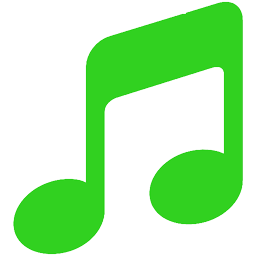
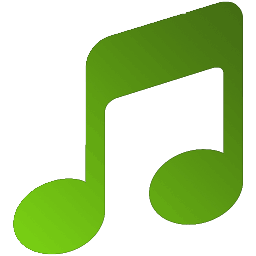
further updates to match new style

diff --git a/feedback.html b/feedback.html
@@ -1,67 +1,71 @@
 <!DOCTYPE html>
-
 <html>
 
 <head>
 
 	<meta charset="utf-8">
-
 	<meta http-equiv="X-UA-Compatible" content="IE=edge">
 
-	<title>
-		Feedback
-	</title>
+	<title>The Music Club - Feedback</title>
 
-	<script src="./js/feedback.js">
-	</script>
+	<link rel="icon" href="./images/favicon.ico">
 
-	<link rel="stylesheet" href="./css/global.css"> <!-- call global stylesheet -->
+	<link rel="stylesheet" href="http://maxcdn.bootstrapcdn.com/font-awesome/4.3.0/css/font-awesome.min.css"> <!-- Font-Awesome -->
+	<link rel="stylesheet" href="./css/global.css"> <!-- Global stylesheet -->
+	<link rel="stylesheet" href="./css/feedback.css"> <!-- Custom stylesheet -->
 
-	<link rel="stylesheet" href="./css/feedback.css"> <!-- call custom stylesheet -->
-
-	<link rel="icon" href="./images/favicon.ico"> <!-- cal favicon -->
-
+	<script src="https://ajax.googleapis.com/ajax/libs/jquery/1.11.2/jquery.min.js"></script> <!-- jQuery Library -->
+	<script src="./js/default.js"></script> <!-- Default JavaScript -->
+	
 </head>
 
 <body>
 
-	<div id="progressbar"> <!-- progress bar div -->
+	<div id="progressbar"> <!-- Progress bar -->
 
-		<span id="loading"></span>
+  		<span id="loading"></span>
 
-	</div> <!-- end of progress bar div -->
+	</div> <!-- END of progress bar -->
 
-	<header> <!-- html5 header --> <!--div header-->
+	<header> <!-- Header -->
 
-			<div class="cdspin"> <!-- page logo -->
-				
-				<img src="./images/cd.png" alt="">
-
-			</div> <!-- end of page logo -->
-		
-		<div class="textspace" <!-- textspace div separator -->
-
-			<h1> <!-- page heading -->
-				Feedback Form
-			</h1> <!-- end of page heading -->
-
+		<div class="logo">
+			<img class="cover" src="./images/logo-cover.png" alt="Cover">
+			<img class="cd" src="./images/logo.png" alt="CD">
 		</div>
 
-		<nav> <!-- page links -->
-			<ul>
-				<li><a href="main.html">home</a></li>
-				<li><a href="cvpage.html">view our cvs!</a></li>
-				<li><a href="feedback.html">give us feedback!</a></li>
-			</ul>
-		</nav> <!-- end of links -->
+		<h1>Music Club</h1>
+		<i class="fa fa-music"></i>
 
-	</header> <!-- end of html5 header -->
+		<nav class="menu"> <!-- Navigation -->
+            <ul>
+                <li><a href="./main.html">Home</a></li>
+                <li><a href="./feedback.html">Feedback</a></li>
+                <li><a href="/content.html">Top 50</a></li>
+                <li><a href="/content.html">CV's</a></li>
+                <li><a href="/content.html">Team</a></li>
+                <li><a href="/content.html">About Us</a></li>
+                <li class="pull-right search"><a href="#"> <i class="fa fa-search"></i> </a></li>
+            </ul>
+	    </nav> <!-- END of navigation -->
 
-	<div id="wrap"> <!-- content wrapper -->
+	</header> <!-- END of header -->
 
-		<div id="content"> <!-- content seperator --> <!--div content-->
+	<div class="search-bar"> <!-- Search bar -->
+		<form action="">
+			<input type="text" name="do-search" placeholder="Search for your favorite music...">
+			<a href="#"><i class="fa fa-close close"></i></a>
+		</form>
+	</div> <!-- END search bar -->
 
-			<form action="mailto:w1492046@my.westminster.ac.uk"> <!--form will mail to specified address-->
+	<div class="page-wrapper"> <!-- Page-wrap -->
+
+		<main class="main-content-full"> <!-- Main content -->
+
+			<article>
+				<h2>The Music-Club Feedback Form</h2>
+				
+				<form action="mailto:w1492046@my.westminster.ac.uk"> <!--form will mail to specified address-->
 
 				<div id="pdetails"> <!--div for personal details-->
 
@@ -198,8 +202,6 @@
 								<br>
 								<br>
 								<br>
-								<br>
-								<br>
 
 							</label>
 						</p>
@@ -261,17 +263,16 @@
 
 			</form>
 
-		</div>
 
-	</div>
+			</article>
 
-	<footer>
-		
-		<div class="textspace" <!-- textspace div separator -->
-			
-		</div> <!-- end of textspace div separator -->
+		</main> <!-- END main content -->
 
-	</footer>
+	</div> <!-- END of page-wrap -->
+
+	<footer> <!-- Footer -->
+		<p class="copy">&copy; 2015 - Music Club Ltd.</p>
+	</footer> <!-- end of html5 footer -->
 
 </body>
 

diff --git a/template.html b/template.html
@@ -7,7 +7,7 @@
 
 	@author Rodrigo Queiroz
 	@date 14th Mar 2015
-	@contributors
+	@contributors Niral Mehta
 
 	To create your pages please follow the template and utilize the appropriate div classes.
 
@@ -22,18 +22,30 @@
 -->
 
 <head>
+
 	<meta charset="utf-8">
 	<meta http-equiv="X-UA-Compatible" content="IE=edge">
+
 	<title>The Music Club - Home</title>
+
 	<link rel="icon" href="./images/favicon.ico">
+
 	<link rel="stylesheet" href="http://maxcdn.bootstrapcdn.com/font-awesome/4.3.0/css/font-awesome.min.css"> <!-- Font-Awesome -->
 	<link rel="stylesheet" href="./css/global.css"> <!-- Global stylesheet -->
 	<!-- <link rel="stylesheet" href="./css/custom.css"> --> <!-- Custom stylesheet -->
+
 	<script src="https://ajax.googleapis.com/ajax/libs/jquery/1.11.2/jquery.min.js"></script> <!-- jQuery Library -->
 	<script src="./js/default.js"></script> <!-- Default JavaScript -->
+	
 </head>
 
 <body>
+
+	<div id="progressbar"> <!-- Progress bar -->
+
+  		<span id="loading"></span>
+
+	</div> <!-- END of progress bar -->
 
 	<header> <!-- Header -->
 
@@ -47,8 +59,8 @@
 
 		<nav class="menu"> <!-- Navigation -->
             <ul>
-                <li><a href="/content.html">Home</a></li>
-                <li><a href="/content.html">Musics</a></li>
+                <li><a href="./main.html">Home</a></li>
+                <li><a href="./feedback.html">Feedback</a></li>
                 <li><a href="/content.html">Top 50</a></li>
                 <li><a href="/content.html">CV's</a></li>
                 <li><a href="/content.html">Team</a></li>

diff --git a/css/feedback.css b/css/feedback.css
@@ -1,7 +1,7 @@
 /* CSS Document */
 @charset "UTF-8";
 
-/* content settings */
+/* content settings
 #content {
 	background-color: rgba(47,47,47, .85);
 	border-radius: 30px;
@@ -11,11 +11,11 @@
 	padding-bottom: 30px;
 	padding-top: 30px;
 }
-/* end of content settings */
+end of content settings */
 
 /* start of form style */
 #pdetails, #questions, #rating {
-	background-color: rgba(255,255,255,.1);
+	background-color: rgba(21,21,21,0.1);
 	border-radius: 3px;
 	margin-top: 10px;
 	margin-left: 5%;
@@ -32,16 +32,12 @@
 	float: right;
 }
 
-#content .check {
-	color: #31d120;
-}
-
 fieldset {
-	border-color: #31d120;
+	border-color: #83e115;
 }
 
 legend {
-	color: #31d120;
+	color: #151515;
 }
 
 label {

diff --git a/main.html b/main.html
@@ -19,11 +19,11 @@
 
 <body>
 
-	<div id="progressbar"> <!-- progress bar div -->
+	<div id="progressbar"> <!-- Progress bar -->
 
   		<span id="loading"></span>
 
-	</div> <!-- end of progress bar div -->
+	</div> <!-- END of progress bar -->
 
 
 	<header> <!-- Header -->
@@ -40,7 +40,7 @@
 		<nav class="menu"> <!-- Navigation -->
             <ul>
                 <li><a href="./main.html">Home</a></li>
-                <li><a href="/content.html">Musics</a></li>
+                <li><a href="./feedback.html">Feedback</a></li>
                 <li><a href="/content.html">Top 50</a></li>
                 <li><a href="/content.html">CV's</a></li>
                 <li><a href="/content.html">Team</a></li>
